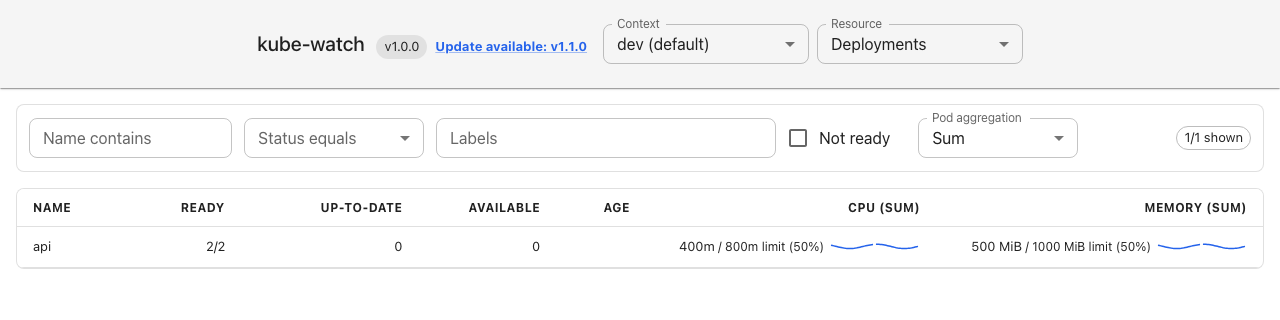
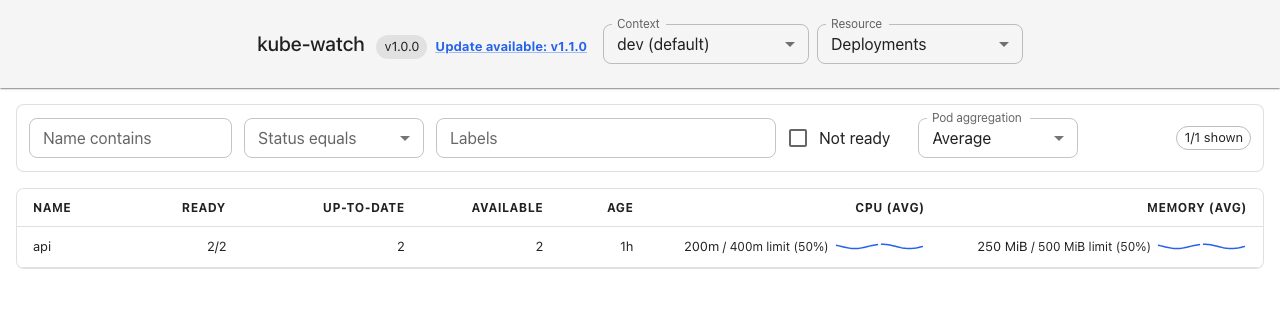
Bound parallel metrics collection and default to averages

diff --git a/web/e2e/app.spec.ts b/web/e2e/app.spec.ts
@@ -468,7 +468,7 @@ test('shows deployment totals, per-pod averages, breakdown and incomplete covera
   const usage = workloadMetrics('deployment-1', 'web', 250)
   const deployment = { kind: 'Deployment', metadata: { uid: 'deployment-1', name: 'web', namespace: 'default' }, spec: { replicas: 2 }, status: { readyReplicas: 2 } }
   await page.route('**/sse/dev/deployments', route => route.fulfill({ contentType: 'text/event-stream', body: `data: ${JSON.stringify({ type: 'SNAPSHOT', objects: [deployment] })}\n\n` }))
-  await page.route('**/api/metrics/dev/deployments', route => route.fulfill({ json: { time: metricsNow, items: { 'deployment-1': { ...usage, reporting: 1, expected: 2, pods: ['pod-1'] } }, pods: { 'pod-1': workloadMetrics('pod-1', 'web-old') } } }))
+  await page.route('**/api/metrics/dev/deployments', route => route.fulfill({ json: { time: metricsNow, items: { 'deployment-1': { ...usage, aggregations: { sum: usage.usage, avg: usage.usage, min: usage.usage, max: usage.usage }, reporting: 1, expected: 2, pods: ['pod-1'] } }, pods: { 'pod-1': workloadMetrics('pod-1', 'web-old') } } }))
   await page.goto('/view/dev/deployments')
   const row = page.getByRole('row', { name: /web/ })
   await expect(row).toContainText('250m *')
@@ -551,15 +551,19 @@ test('switches deployment list and detail charts between pod aggregates without 
       return { time: metricsNow - (60 - i) * 15_000, usage: i === 30 ? null : readings.sum, aggregations: i === 30 ? undefined : readings }
     }),
   }
-  const deployment = { kind: 'Deployment', metadata: { uid: 'deployment-1', name: 'api', namespace: 'default' }, spec: { replicas: 2 }, status: { readyReplicas: 2 } }
+  const deployment = { kind: 'Deployment', metadata: { uid: 'deployment-1', name: 'api', namespace: 'default', creationTimestamp: '2026-07-07T23:00:00Z' }, spec: { replicas: 2 }, status: { readyReplicas: 2, updatedReplicas: 2, availableReplicas: 2 } }
   let requests = 0
   await page.route('**/api/metrics/dev/deployments', route => { requests++; return route.fulfill({ json: { time: metricsNow, items: { 'deployment-1': total }, pods: { a, b } } }) })
   await page.route('**/sse/dev/deployments', route => route.fulfill({ contentType: 'text/event-stream', body: `data: ${JSON.stringify({ type: 'SNAPSHOT', objects: [deployment] })}\n\n` }))
   await page.goto('/view/dev/deployments')
   const row = page.locator('.resource-table').getByRole('row', { name: /api/ })
-  await expect(row).toContainText('400m')
-  await expect(page.getByRole('columnheader', { name: /CPU \(SUM\)/ })).toBeVisible()
+  await expect(row).toContainText('200m')
+  await expect(page.getByRole('columnheader', { name: /CPU \(AVG\)/ })).toBeVisible()
+  await expect(page.getByRole('combobox', { name: 'Pod aggregation' })).toContainText('Average')
   await captureReadmeScreenshot(page, 'deployment-overview.png', screenshotTheme(testInfo), { x: 0, y: 0, width: 1280, height: 320 })
+  await page.getByRole('combobox', { name: 'Pod aggregation' }).click()
+  await page.getByRole('option', { name: 'Sum', exact: true }).click()
+  await expect(row).toContainText('400m')
   await page.getByRole('combobox', { name: 'Pod aggregation' }).click()
   await page.getByRole('option', { name: 'Average', exact: true }).click()
   await expect(row).toContainText('200m / 400m limit (50%)')
@@ -591,6 +595,9 @@ test('switches deployment list and detail charts between pod aggregates without 
   await page.getByRole('option', { name: 'Maximum', exact: true }).click()
   await expect(panel.getByText('CPU (Maximum): 300m')).toBeVisible()
   await page.mouse.move(0, 0)
+  await panel.getByRole('combobox', { name: 'Pod aggregation' }).click()
+  await page.getByRole('option', { name: 'Average', exact: true }).click()
+  await expect(panel.getByText('CPU (Average): 200m')).toBeVisible()
   await expect(page.getByRole('listbox', { includeHidden: true })).toHaveCount(0)
   await captureReadmeScreenshot(page, 'deployment-metrics.png', screenshotTheme(testInfo))
 })

diff --git a/web/src/components/MetricsDetails.test.tsx b/web/src/components/MetricsDetails.test.tsx
@@ -129,7 +129,9 @@ describe('deployment aggregations', () => {
     const column = metricColumns(data, 'max')[0]
     expect(column.header).toBe('CPU (MAX)')
     expect(column.sortValue?.({ metadata: { uid: 'deployment' } })).toBe(300)
-    render(<MetricsDetails workload={deployment} snapshot={data} deployment aggregation="max" />)
+    const { rerender } = render(<MetricsDetails workload={deployment} snapshot={data} deployment />)
+    expect(screen.getByText('CPU (Average): 200m')).toBeInTheDocument()
+    rerender(<MetricsDetails workload={deployment} snapshot={data} deployment aggregation="max" />)
     expect(screen.getByText('CPU (Maximum): 300m')).toBeInTheDocument()
     expect(screen.getByText(/Maximum across reporting pods/)).toBeInTheDocument()
     expect(screen.getByText(/Allocation reference lines follow the current pod/)).toBeInTheDocument()

diff --git a/web/src/components/MetricsDetails.tsx b/web/src/components/MetricsDetails.tsx
@@ -24,7 +24,7 @@ export function metricColumns(snapshot?: MetricsSnapshot, aggregation?: Aggregat
   }))
 }
 
-export function MetricsDetails({ workload: total, snapshot, deployment, error, aggregation = 'sum', onAggregationChange }: {
+export function MetricsDetails({ workload: total, snapshot, deployment, error, aggregation = 'avg', onAggregationChange }: {
   workload?: WorkloadMetrics; snapshot?: MetricsSnapshot; deployment: boolean; error?: string; aggregation?: Aggregation; onAggregationChange?: (value: Aggregation) => void
 }) {
   const workload = deployment ? withAggregation(total, aggregation) : total

diff --git a/web/src/components/KubeWatchBody.tsx b/web/src/components/KubeWatchBody.tsx
@@ -27,7 +27,7 @@ type KubeWatchBodyProps = {
 
 export function KubeWatchBody({ ctx, resource }: KubeWatchBodyProps) {
   const [filters, setFilters] = useState<TableFilters>(emptyFilters)
-  const [aggregation, setAggregation] = useState<Aggregation>('sum')
+  const [aggregation, setAggregation] = useState<Aggregation>('avg')
   const [sort, setSort] = useState<SortState>(null)
   const [logTailLines, setLogTailLines] = useState(200)
   const mainRef = useRef<HTMLElement | null>(null)

diff --git a/metrics.go b/metrics.go
@@ -24,6 +24,10 @@ import (
 const metricsInterval = 15 * time.Second
 const metricsRetention = 15 * time.Minute
 const metricsFreshness = time.Minute
+const metricsAPITimeout = 10 * time.Second
+
+// Include setup and waiting for a shared refresh, in addition to two pairs of API calls.
+const metricsRequestTimeout = 4*metricsAPITimeout + 5*time.Second
 
 var podMetricsGVR = schema.GroupVersionResource{Group: "metrics.k8s.io", Version: "v1beta1", Resource: "pods"}
 
@@ -94,7 +98,7 @@ func NewMetricsManager(rules *clientcmd.ClientConfigLoadingRules) *MetricsManage
 		if err != nil {
 			return nil, "", err
 		}
-		rest.Timeout = 10 * time.Second
+		rest.Timeout = metricsAPITimeout
 		ns, _, err := cfg.Namespace()
 		if err != nil {
 			return nil, "", err
@@ -133,12 +137,13 @@ func (m *MetricsManager) snapshot(ctx context.Context, cluster, kind string) (me
 		return metricsSnapshot{}, err
 	}
 	if now.Sub(e.polled) >= metricsInterval {
+		phaseStarted := time.Now()
 		e.refreshPods(ctx, now)
 		if err := ctx.Err(); err != nil {
 			// A cancelled browser request must not poison the shared cache.
 			e.polled = time.Time{}
 			e.deploymentPolled = time.Time{}
-			return metricsSnapshot{}, fmt.Errorf("collect pod metrics: %w", err)
+			return metricsSnapshot{}, fmt.Errorf("collect pod metrics after %s: %w", time.Since(phaseStarted).Round(time.Millisecond), err)
 		}
 		if e.err != "" {
 			slog.Warn("pod metrics unavailable", "cluster", cluster, "namespace", e.namespace, "error", e.err)
@@ -158,10 +163,11 @@ func (m *MetricsManager) snapshot(ctx context.Context, cluster, kind string) (me
 	items, message := e.pods, e.err
 	if kind == "deployments" {
 		if e.deploymentPolled.Before(e.polled) {
+			phaseStarted := time.Now()
 			e.refreshDeployments(ctx, now)
 			if err := ctx.Err(); err != nil {
 				e.deploymentPolled = time.Time{}
-				return metricsSnapshot{}, fmt.Errorf("resolve deployment metrics: %w", err)
+				return metricsSnapshot{}, fmt.Errorf("resolve deployment metrics after %s: %w", time.Since(phaseStarted).Round(time.Millisecond), err)
 			}
 			if e.deploymentErr != "" {
 				slog.Warn("deployment metrics unavailable", "cluster", cluster, "namespace", e.namespace, "error", e.deploymentErr)
@@ -213,29 +219,37 @@ func (e *metricsEntry) record(w *workloadMetrics, now time.Time) {
 
 func (e *metricsEntry) refreshPods(ctx context.Context, now time.Time) {
 	e.err = ""
-	pods, err := e.client.Resource(supportedResources["pods"]).Namespace(e.namespace).List(ctx, metav1.ListOptions{})
+	var pods, metrics *unstructured.UnstructuredList
+	var podErr, metricErr error
+	var requests sync.WaitGroup
+	requests.Add(2)
+	go func() {
+		defer requests.Done()
+		pods, podErr = e.client.Resource(supportedResources["pods"]).Namespace(e.namespace).List(ctx, metav1.ListOptions{})
+	}()
+	go func() {
+		defer requests.Done()
+		metrics, metricErr = e.client.Resource(podMetricsGVR).Namespace(e.namespace).List(ctx, metav1.ListOptions{})
+		if apierrors.IsNotFound(metricErr) {
+			stable := podMetricsGVR
+			stable.Version = "v1"
+			metrics, metricErr = e.client.Resource(stable).Namespace(e.namespace).List(ctx, metav1.ListOptions{})
+		}
+	}()
+	requests.Wait()
 	if ctx.Err() != nil {
 		return
 	}
-	if err != nil {
-		e.err = fmt.Sprintf("Cannot read pods for metrics: %v", err)
+	if podErr != nil {
+		e.err = fmt.Sprintf("Cannot read pods for metrics: %v", podErr)
 		e.pods = nil
 		e.podObjects = nil
 		return
 	}
-	metrics, err := e.client.Resource(podMetricsGVR).Namespace(e.namespace).List(ctx, metav1.ListOptions{})
-	if apierrors.IsNotFound(err) {
-		stable := podMetricsGVR
-		stable.Version = "v1"
-		metrics, err = e.client.Resource(stable).Namespace(e.namespace).List(ctx, metav1.ListOptions{})
-	}
-	if ctx.Err() != nil {
-		return
-	}
 	e.podObjects = pods.Items
 	byName := make(map[string]unstructured.Unstructured)
-	if err != nil {
-		e.err = fmt.Sprintf("CPU/memory metrics unavailable (Metrics API and pods.metrics.k8s.io list permission are required): %v", err)
+	if metricErr != nil {
+		e.err = fmt.Sprintf("CPU/memory metrics unavailable (Metrics API and pods.metrics.k8s.io list permission are required): %v", metricErr)
 	} else {
 		for _, item := range metrics.Items {
 			byName[item.GetName()] = item
@@ -306,20 +320,28 @@ func (e *metricsEntry) refreshPods(ctx context.Context, now time.Time) {
 func (e *metricsEntry) refreshDeployments(ctx context.Context, now time.Time) {
 	e.deploymentErr = ""
 	e.deployments = nil
-	replicas, err := e.client.Resource(supportedResources["replicasets"]).Namespace(e.namespace).List(ctx, metav1.ListOptions{})
+	var replicas, deployments *unstructured.UnstructuredList
+	var replicaErr, deploymentErr error
+	var requests sync.WaitGroup
+	requests.Add(2)
+	go func() {
+		defer requests.Done()
+		replicas, replicaErr = e.client.Resource(supportedResources["replicasets"]).Namespace(e.namespace).List(ctx, metav1.ListOptions{})
+	}()
+	go func() {
+		defer requests.Done()
+		deployments, deploymentErr = e.client.Resource(supportedResources["deployments"]).Namespace(e.namespace).List(ctx, metav1.ListOptions{})
+	}()
+	requests.Wait()
 	if ctx.Err() != nil {
 		return
 	}
-	if err != nil {
-		e.deploymentErr = fmt.Sprintf("Cannot resolve deployment metrics: %v", err)
+	if replicaErr != nil {
+		e.deploymentErr = fmt.Sprintf("Cannot resolve deployment metrics: %v", replicaErr)
 		return
 	}
-	deployments, err := e.client.Resource(supportedResources["deployments"]).Namespace(e.namespace).List(ctx, metav1.ListOptions{})
-	if ctx.Err() != nil {
-		return
-	}
-	if err != nil {
-		e.deploymentErr = fmt.Sprintf("Cannot read deployments for metrics: %v", err)
+	if deploymentErr != nil {
+		e.deploymentErr = fmt.Sprintf("Cannot read deployments for metrics: %v", deploymentErr)
 		return
 	}
 	owners := make(map[string]string)
@@ -426,7 +448,7 @@ func (m *MetricsManager) ServeHTTP(w http.ResponseWriter, r *http.Request) {
 		return
 	}
 	started := time.Now()
-	ctx, cancel := context.WithTimeout(r.Context(), 12*time.Second)
+	ctx, cancel := context.WithTimeout(r.Context(), metricsRequestTimeout)
 	defer cancel()
 	snapshot, err := m.snapshot(ctx, cluster, kind)
 	if err != nil {

diff --git a/metrics_test.go b/metrics_test.go
@@ -5,6 +5,7 @@ import (
 	"context"
 	"errors"
 	"log/slog"
+	"net/http"
 	"net/http/httptest"
 	"strings"
 	"sync"
@@ -19,6 +20,7 @@ import (
 	"k8s.io/apimachinery/pkg/types"
 	"k8s.io/client-go/dynamic"
 	"k8s.io/client-go/dynamic/fake"
+	"k8s.io/client-go/rest"
 	ktesting "k8s.io/client-go/testing"
 	"k8s.io/client-go/tools/clientcmd"
 	"k8s.io/client-go/tools/clientcmd/api"
@@ -288,8 +290,15 @@ func TestMetricsStableAPIFallback(t *testing.T) {
 	if err != nil || s.Error != "" {
 		t.Fatalf("fallback: %+v %v", s, err)
 	}
-	actions := client.Actions()
-	if actions[len(actions)-1].GetResource().Version != "v1" {
+	stable := podMetricsGVR
+	stable.Version = "v1"
+	found := false
+	for _, action := range client.Actions() {
+		if action.GetResource() == stable {
+			found = true
+		}
+	}
+	if !found {
 		t.Fatal("stable API not attempted")
 	}
 }
@@ -497,5 +506,90 @@ func TestDeploymentHistoryTracksAsynchronousPodSamples(t *testing.T) {
 	}
 	if len(repeated.Items["deployment"].History) != 2 {
 		t.Fatal("identical pod sample sets created duplicate history")
+	}
+}
+
+func TestMetricsRefreshRunsTwoBoundedPairsAcrossSubscribers(t *testing.T) {
+	started := make(chan string, 4)
+	podPair, ownerPair := make(chan struct{}), make(chan struct{})
+	var mu sync.Mutex
+	active, maximum, total := 0, 0, 0
+	server := httptest.NewServer(http.HandlerFunc(func(w http.ResponseWriter, r *http.Request) {
+		mu.Lock()
+		active++
+		total++
+		maximum = max(maximum, active)
+		mu.Unlock()
+		defer func() { mu.Lock(); active--; mu.Unlock() }()
+		select {
+		case started <- r.URL.Path:
+		case <-r.Context().Done():
+			return
+		}
+		release := ownerPair
+		if !strings.HasPrefix(r.URL.Path, "/apis/apps/") {
+			release = podPair
+		}
+		select {
+		case <-release:
+		case <-r.Context().Done():
+			return
+		}
+		w.Header().Set("Content-Type", "application/json")
+		_, _ = w.Write([]byte(`{"apiVersion":"v1","kind":"List","items":[]}`))
+	}))
+	defer server.Close()
+	ctx, cancel := context.WithTimeout(context.Background(), 5*time.Second)
+	defer cancel()
+	client, err := dynamic.NewForConfig(&rest.Config{Host: server.URL})
+	if err != nil {
+		t.Fatal(err)
+	}
+	m := &MetricsManager{entries: map[string]*metricsEntry{}, newClient: func(string) (dynamic.Interface, string, error) { return client, "test", nil }}
+	completed := make(chan error, 8)
+	for i := 0; i < 8; i++ {
+		go func() { _, requestErr := m.snapshot(ctx, "ctx", "deployments"); completed <- requestErr }()
+	}
+	waitForPair := func(owner bool) {
+		t.Helper()
+		paths := make(map[string]bool)
+		for i := 0; i < 2; i++ {
+			select {
+			case path := <-started:
+				if strings.HasPrefix(path, "/apis/apps/") != owner || !strings.Contains(path, "/namespaces/test/") {
+					t.Fatalf("unexpected request in pair: %s", path)
+				}
+				paths[path] = true
+			case <-ctx.Done():
+				t.Fatal("independent API requests did not overlap")
+			}
+		}
+		if len(paths) != 2 {
+			t.Fatalf("pair duplicated an endpoint: %v", paths)
+		}
+		select {
+		case path := <-started:
+			t.Fatalf("more than two API requests started: %s", path)
+		default:
+		}
+	}
+	waitForPair(false)
+	close(podPair)
+	waitForPair(true)
+	close(ownerPair)
+	for i := 0; i < 8; i++ {
+		select {
+		case err = <-completed:
+			if err != nil {
+				t.Fatal(err)
+			}
+		case <-ctx.Done():
+			t.Fatal("shared subscribers did not complete")
+		}
+	}
+	mu.Lock()
+	defer mu.Unlock()
+	if maximum != 2 || total != 4 {
+		t.Fatalf("maximum concurrency=%d, total requests=%d; want two concurrent requests and four total across eight subscribers", maximum, total)
 	}
 }

diff --git a/README.md b/README.md
@@ -146,9 +146,9 @@ Pods and Deployments show sortable CPU (millicores) and memory (MiB/GiB) columns
 
 Select a row and open **Metrics** for larger charts, sampled values on hover, configured request/limit reference lines with labelled colour swatches, and container or pod breakdowns. Equal request and limit values share one dashed line so their patterns do not overlap. The panel can be maximized like the other detail tabs.
 
-Deployments have a **Pod aggregation** selector in both the list controls and Metrics tab: Sum (default), Average, Minimum, and Maximum across reporting pods. It changes current values, sorting, sparklines, and detail charts immediately using the same collected samples. CPU and memory extrema are independent; their current allocation comparisons/reference lines follow the pod supplying each value. Average usage uses reporting pods, while average allocation references use all owned pods. Incomplete reporting suppresses percentages and leaves gaps in all four history series.
+Deployments have a **Pod aggregation** selector in both the list controls and Metrics tab: Sum, Average (default), Minimum, and Maximum across reporting pods. It changes current values, sorting, sparklines, and detail charts immediately using the same collected samples. CPU and memory extrema are independent; their current allocation comparisons/reference lines follow the pod supplying each value. Average usage uses reporting pods, while average allocation references use all owned pods. Incomplete reporting suppresses percentages and leaves gaps in all four history series.
 
-Metrics use the Kubernetes Metrics API, the source behind `kubectl top`. The active kubeconfig user needs `list` on `pods.metrics.k8s.io` and core `pods` in the context's namespace. Deployment metrics additionally need `list` on `replicasets.apps` and `deployments.apps`. kube-watch does not install Metrics Server or change RBAC. Missing API access is shown as a warning while the resource list remains usable. Failed HTTP requests include the backend response detail in the warning and browser console. Backend logs record request failures with context, resource, elapsed time, and error, and collection failures with context and namespace; normal browser cancellations stay quiet.
+Metrics use the Kubernetes Metrics API, the source behind `kubectl top`. The active kubeconfig user needs `list` on `pods.metrics.k8s.io` and core `pods` in the context's namespace. Deployment metrics additionally need `list` on `replicasets.apps` and `deployments.apps`. kube-watch does not install Metrics Server or change RBAC. Missing API access is shown as a warning while the resource list remains usable. Failed HTTP requests include the backend response detail in the warning and browser console. Backend logs record request failures with context, resource, elapsed time, and error, and collection failures with context and namespace; normal browser cancellations stay quiet. Each Kubernetes API call has a 10-second timeout; the overall metrics request has 45 seconds for collection and shared-refresh waiting. A deployment refresh uses two bounded pairs: pods alongside pod metrics, then ReplicaSets alongside deployments. At most two Kubernetes API requests run concurrently per context, shared across browser clients.
 
 The browser polls `/api/metrics/{context}/{pods|deployments}` every 15 seconds while a supported view is open. The backend shares pod readings across clients and views, refreshing at most once every 15 seconds per context. Deployment ownership follows Deployment → ReplicaSet → Pod, including both ReplicaSets during rolling updates. Deployment totals and averages include fully reporting pods, with reporting coverage shown explicitly; pod totals can be partial when a container is missing. Missing readings display `—`, partial totals carry `*`, and samples older than one minute are excluded. CPU is a measurement-window average and memory is working-set usage. Configured requests/limits are summed; missing limits do not mean zero or that the workload is bounded by the displayed sum.
 

diff --git a/AGENT_INSTRUCTIONS.md b/AGENT_INSTRUCTIONS.md
@@ -31,7 +31,7 @@ Runbook (dev/test)
 - Check backend structured slog output on stderr; console colour is detected automatically and disabled by a non-empty `NO_COLOR` or `TERM=dumb`. Vite dev server logs are available from `npm run dev`.
 - Kubeconfig loading should use client-go default loading rules so `$KUBECONFIG` multi-file setups match kubectl behavior.
 - Pod/Deployment log streaming uses `/logs/{context}/{resource}/{namespace}/{name}` and should preserve multiple-container behavior with container tabs.
-- CPU/memory collection uses `/api/metrics/{context}/{pods|deployments}` in the kubeconfig namespace. Preserve shared 15-second sampling, bounded 15-minute memory-only history, source timestamps, UID isolation, missing-data gaps and reporting coverage. Deployment totals follow ReplicaSet controller ownership; missing Metrics API/RBAC access must not break resource browsing. Charts use shared SVG components without added dependencies. Deployments collect sum/average/minimum/maximum per sample; keep their shared list/detail selector independent of collection, preserve all four histories, and match minimum/maximum allocation references to the supplying pod independently for CPU and memory.
+- CPU/memory collection uses `/api/metrics/{context}/{pods|deployments}` in the kubeconfig namespace. Preserve shared 15-second sampling, bounded 15-minute memory-only history, source timestamps, UID isolation, missing-data gaps and reporting coverage. Deployment totals follow ReplicaSet controller ownership; missing Metrics API/RBAC access must not break resource browsing. Charts use shared SVG components without added dependencies. Deployments default to Average and collect sum/average/minimum/maximum per sample; keep their shared list/detail selector independent of collection, preserve all four histories, allow the 45-second total request budget, preserve the two-pair collection pattern with at most two concurrent 10-second API calls per context, and match minimum/maximum allocation references to the supplying pod independently for CPU and memory.
 - Table filtering is client-side; keep name/status/label filters and resource-specific quick toggles consistent with displayed table semantics.
 - Release builds inject version metadata through GoReleaser ldflags; keep `/api/version` and the UI update notice working when changing release config.
 - `kube-watch selfupdate` downloads GitHub Release assets, verifies `checksums.txt`, and replaces the current executable on macOS/Linux; Windows updates are manual archive replacement. Keep this flow tested when release asset naming changes.
